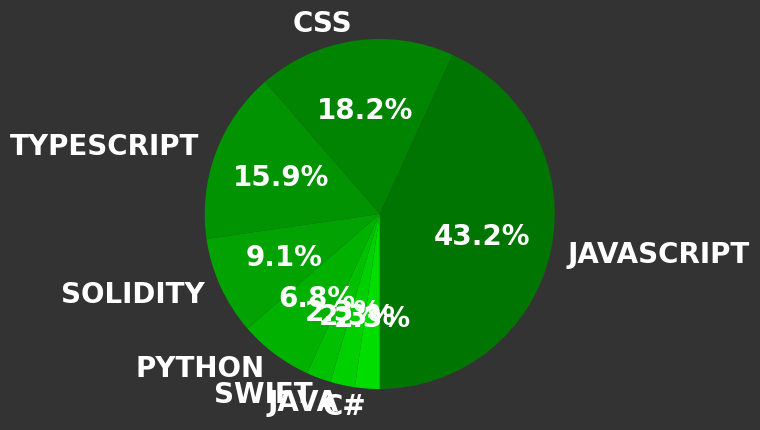
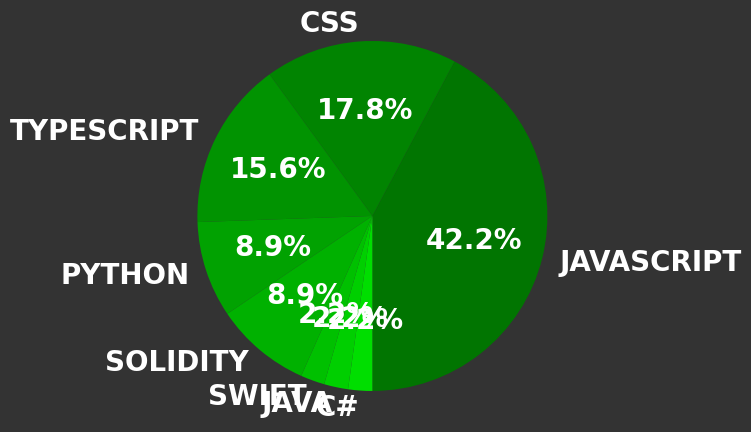
Updated Chart - Tue Sep 17 04:08:49 AWST 2024

diff --git a/README.md b/README.md
@@ -4,22 +4,22 @@
 
 ## 📊 Quick Stats
 
-- **Total Repositories**: 48
+- **Total Repositories**: 49
 - **Total Stars Earned**: 2
 - **Total Forks**: 3
 - **Total Watchers**: 2
 - **Languages Used**: 8
-- **Average Repository Size**: 124.85 MB
+- **Average Repository Size**: 122.30 MB
 - **Most Starred Repository**: [Beaver](https://github.com/FiendsXYZ/Beaver) with 1 ⭐
 - **Most Forked Repository**: [NefariousPirateship](https://github.com/FiendsXYZ/NefariousPirateship) with 1 🍴
 - **Most Watched Repository**: [Beaver](https://github.com/FiendsXYZ/Beaver) with 1 👀
 
 ## 📈 Commit Activity
 
-- **Last 24 hours**: 87 commits
-- **Last 7 days**: 416 commits
-- **Last 30 days**: 734 commits
-- **Last 365 days**: 1853 commits
+- **Last 24 hours**: 34 commits
+- **Last 7 days**: 407 commits
+- **Last 30 days**: 743 commits
+- **Last 365 days**: 1862 commits
 
 ## 📝 Top Languages by Lines of Code
 
@@ -29,7 +29,7 @@
 - **CSS**: 12828 LOC
 - **Handlebars**: 2175 LOC
 - **MDX**: 1226 LOC
-- **Python**: 1001 LOC
+- **Python**: 1080 LOC
 - **Swift**: 672 LOC
 - **HTML**: 516 LOC
 - **C#**: 459 LOC
